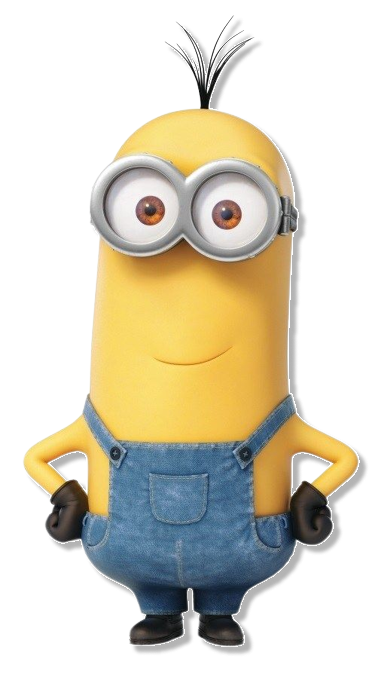
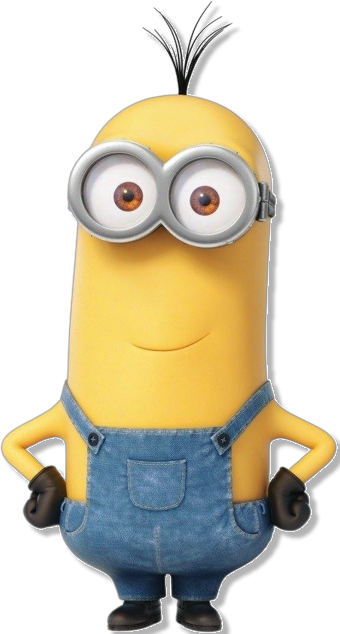
quase pronto

Changed region(s): [[0.0, 0.0, 1.0, 1.0], [0.4118, 0.5095, 0.5882, 0.5694]]

diff --git a/escolhaPersonagem/style.css b/escolhaPersonagem/style.css
@@ -17,36 +17,58 @@ body{
 h2{
     font-family: 'Titan One', cursive;
     text-align: center;
-    font-size: 4em;
+    font-size: 3em;
     color: #1F2B58;
 }
 
+header{
+    height: 20vh;
+    display: flex;
+    align-items: center;
+    justify-content: center;
+}
+
 main{
-    height: 92vh ;
+    height: 80vh ;
     display: flex;
     justify-content: center;
-    align-items: center;
-    justify-content: space-between
-
-
-}
-.kevin{
-    height: 60vh;
-    /* width: 20vw; */
-    display: flex;
-    background-color: pink;
+    align-items: start;
+    justify-content: space-evenly;
 }
 
-.stuart{
+.container-minion{
     height: 60vh;
-    /* width: 20vw; */
+    width: 30%;
+}
+
+.container-minion button{
+    height: 100%;
+    width: 100%;
     display: flex;
-    background-color: pink;
+    align-items: end;
+    padding-bottom: 24px;
+    background-color: transparent;
+    border: none;
+    justify-content: center;
+    border-radius: 12px;
+    cursor: pointer;
+}
+
+.kevin img{
+    height: 90%;
+}
+
+.stuart img{
+   height: 70%;
 }
 
 .bob img{
-    height: 60vh;
-    /* width: 20vw; */
-    display: flex;
-    background-color: pink;
+    height: 60%;
+}
+
+.container-minion h3{
+    text-align: center;
+    font-size: 2rem;
+    font-family: 'Titan One', cursive;
+    color: #1F2B58;
 }

diff --git a/escolhaPersonagem/personagem.html b/escolhaPersonagem/personagem.html
@@ -17,15 +17,38 @@
     </header>
 
     <main>
-        <div class="kevin">
-            <img src="./img/kevin.png" alt="kevin">
+
+        <div class="kevin container-minion">
+            <button> 
+                 
+                 <a href="../traducao/translate.html" target="_blank">
+                    <img class="kevin" src="./img/kevin.png" alt="kevin">
+                 </a>
+            </button>
+            <h3>kevin</h3>
         </div>
-        <div class="stuart">
-            <img src="./img/stuart.png" alt="stuart">
+
+
+        <div class="stuart container-minion">
+            <button>
+                <a href="../traducao/translate.html" target="_blank">
+                    <img class="stuart" src="./img/stuart.png" alt="stuart">
+                </a>
+            </button>
+            <h3>Stuart</h3>
         </div>
-        <div class="bob">
-            <img src="./img/bob.png" alt="bob">
+
+
+        <div class="bob container-minion">
+            <button>
+                <a href="../traducao/translate.html" target="_blank">
+                    <img class="bob" src="./img/bob.png" alt="bob">
+                </a>
+            </button>
+            <h3>Bob</h3>
         </div>
+
+        
     </main>
     
 </body>

diff --git a/traducao/style.css b/traducao/style.css
@@ -24,22 +24,33 @@ main{
 }
 
 .translate{
-    width: 20vw;
-    height: 20vh;
+    width: 30vw;
+    height: 40vh;
+    display: flex;
+    justify-content: center;
+    align-items: center;
 }
 
 textarea{
     
-    width: 20vw;
-    height: 30vh;
+    width: 30vw;
+    height: 40vh;
+    display: flex;
     border: none;
     border-radius: 2em;
     padding: 16px;
     background-color: #FEFFDF;
+    align-items: center;
+    justify-content: center;
 }
 
 h2{
     font-size: 4em;
     text-align: center;
     color: #1F2B58;
+}
+
+.pilhaminions img{
+    width: 10vw;
+    height: 20vh;
 }

diff --git a/traducao/translate.html b/traducao/translate.html
@@ -15,7 +15,11 @@
     
     <main>
         <div class="translate">
-            <textarea  id="translateMinion"  placeholder="Escreva aqui..." wrap="hard"></textarea> 
+            <textarea  id="translateMinion"  placeholder="Escreva aqui..." wrap="hard" style="resize: none;"></textarea> 
+        </div>
+
+        <div class="pilhaMinions">
+            <!-- <img class="pilhaMinions" src="./img/pilhaDeMinions.png" alt="minions"> -->
         </div>
 
     </main>
